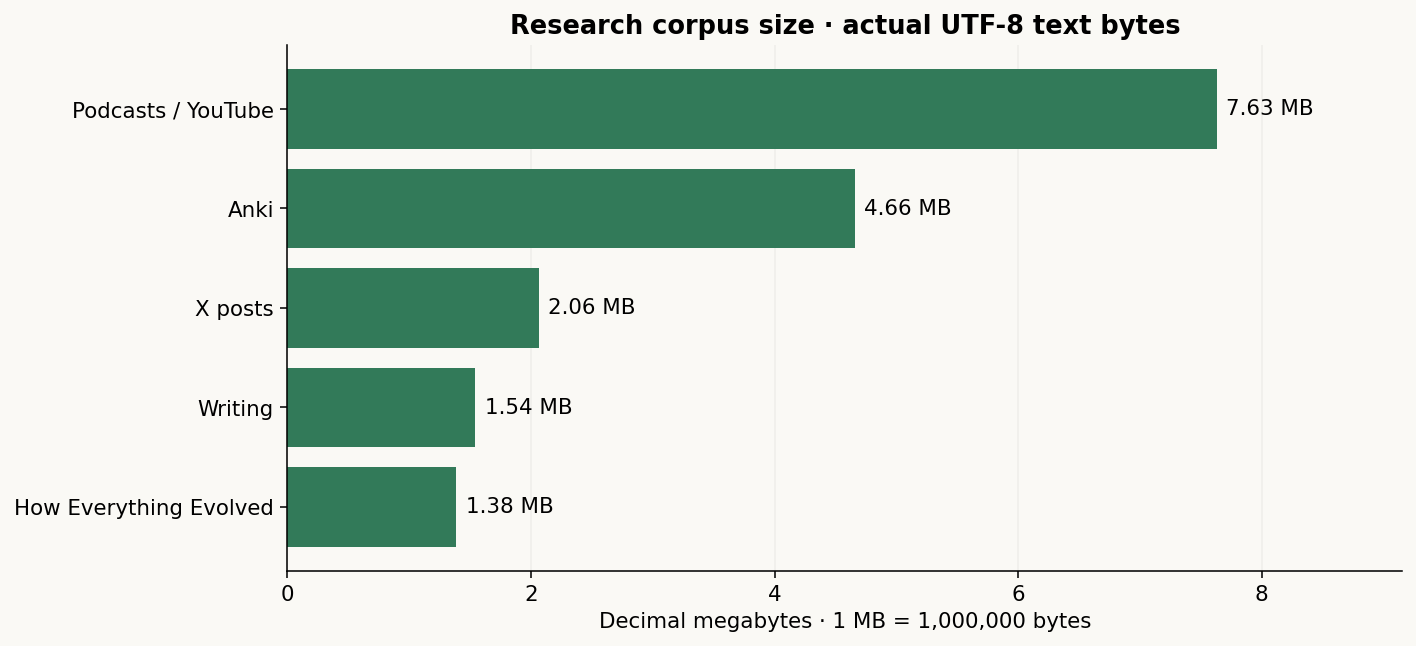
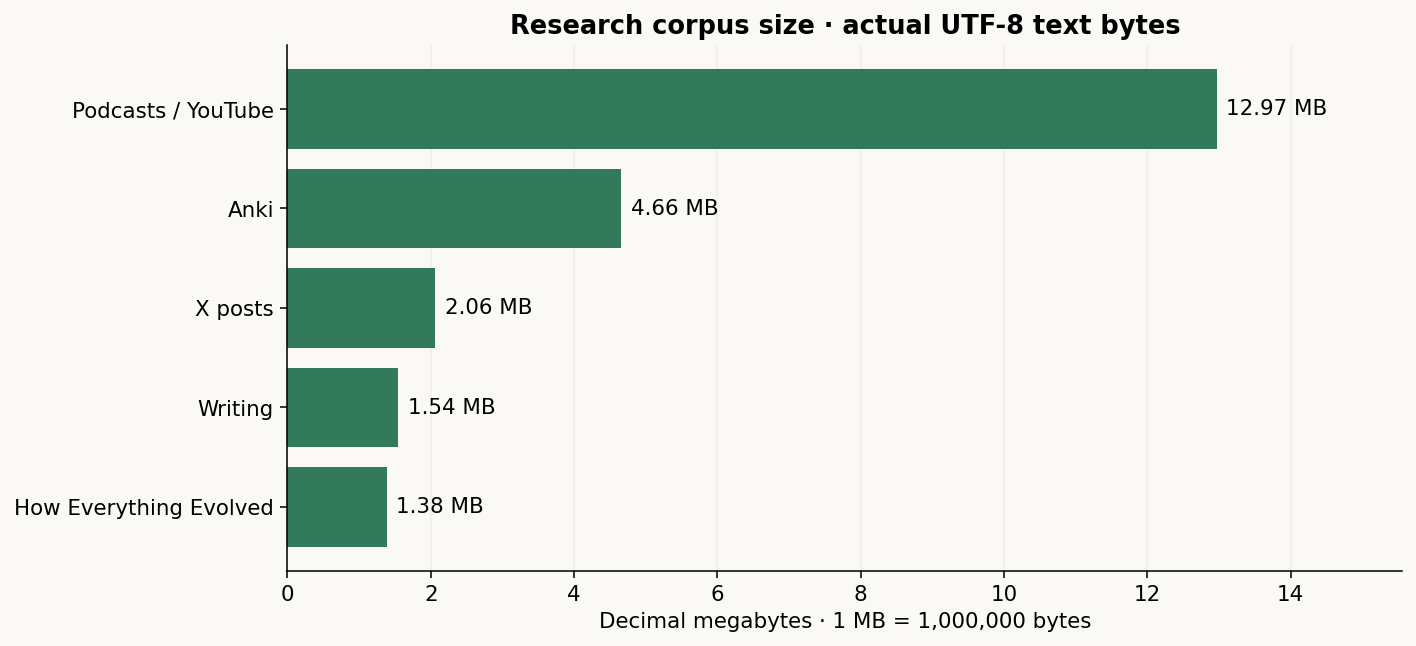
Publish complete speaker corpus coverage and measured size graph

diff --git a/public/rhysbot/index.html b/public/rhysbot/index.html
@@ -9,11 +9,11 @@
 <section class="section"><div class="section-head"><h2>The whole pipeline.</h2><p>From source material to a model someone can use. Each stage has inspectable artifacts and measured results.</p></div><div class="pipeline"><div class="step"><small>01 / RELEASED</small><h3>Collect & review</h3><p>Reviewed notes, writing, original posts, and public transcripts.</p></div><div class="step"><small>02 / TRAINED</small><h3>Pretrain</h3><p>Tiny nanochat trained from scratch. An experiment; current samples are incoherent.</p></div><div class="step"><small>03 / TRAINED</small><h3>Post-train</h3><p>Qwen: 1,000 continued-pretraining and 400 instruction-tuning updates.</p></div><div class="step"><small>04 / MEASURED</small><h3>Evaluate</h3><p>Saved checkpoints compared with untouched base and instruction baselines.</p></div><div class="step active"><small>05 / LIVE</small><h3>Serve & learn</h3><p>Verified saved checkpoints, short answers, and inference that scales to zero.</p></div></div></section>
 <section class="section" id="rhysbot-demo"><div class="section-head"><h2>Try Rhysbot.</h2><p>Explore a tiny model trained from scratch and a Qwen adaptation. Nanochat is a toy experiment, with incoherent samples so far. Each answer identifies its actual checkpoint. Answers are limited to 64 tokens; a cold start can take a minute.</p></div><form id="demo-form"><div class="toolbar"><select id="demo-model" aria-label="Choose model" disabled><option value="qwen">Qwen adaptation</option><option value="nanochat">Nanochat from scratch</option></select><input id="demo-prompt" aria-label="Your question for Rhysbot" placeholder="Ask about an idea in the corpus…" disabled></div><div id="rhysbot-verification"></div><button id="demo-send" type="submit" disabled>Generate a short answer</button></form><p id="demo-status" class="status" role="status" aria-live="polite">Connecting to the hosted checkpoint demo… The corpus explorer is ready below.</p><article id="demo-result" class="record" hidden><p id="demo-answer"></p><p id="demo-identity" class="caption"></p><details><summary>Checkpoint &amp; timing</summary><p id="demo-provenance"></p></details></article></section>
 <section class="section two-col" id="evaluation"><div><h2>What changed?</h2><p>On a small frozen held-out sample, the adaptation predicts study material better. Lower loss does not establish better factual answers or a faithful model of Rhys.</p><p>Nanochat post-training lowered held-out bits per byte from 2.1565 to 1.8188, but its completions remain incoherent. <a href="https://github.com/Rhys-Lindmark/rhysbot/blob/main/docs/MODEL_CARD.md">Read the model card and actual samples ↗</a></p></div><div class="record"><table style="width:100%;text-align:left;border-collapse:collapse;font-size:13px"><caption style="text-align:left;margin-bottom:12px">Qwen diagnostic loss · lower is better</caption><thead><tr><th>Checkpoint</th><th>Text NLL</th><th>Answer NLL</th></tr></thead><tbody><tr><td>Untouched base</td><td>4.0368</td><td>2.9791</td></tr><tr><td>Instruction baseline</td><td>3.8480</td><td>3.7246</td></tr><tr><td>After CPT</td><td>1.5905</td><td>2.4637</td></tr><tr><td>After CPT + SFT</td><td>1.5913</td><td>2.2501</td></tr></tbody></table><p class="caption">32 held-out documents; 10 study questions. Answer loss uses shared ChatML, not each model’s best native prompt. Instruction-baseline samples use its official template with thinking disabled. This is a small diagnostic, not a broad benchmark.</p></div></section>
-<section class="section" id="training-graphs"><div class="section-head"><h2>What training looked like.</h2><p>Actual optimizer logs and held-out measurements. Objectives have separate panels. Nanochat logged NaNs from SFT step 44. Lower loss does not establish factual accuracy.</p></div><div class="two-col"><figure style="margin:0 0 24px"><a href="charts/training-loss.svg"><img src="charts/training-loss.svg" alt="Actual training loss across scratch, continued pretraining and instruction tuning" loading="lazy" style="width:100%;height:auto"></a><figcaption class="caption">2,000 scratch, 80 nanochat SFT, 1,000 Qwen CPT and 400 Qwen SFT updates.</figcaption></figure><figure style="margin:0 0 24px"><a href="charts/nanochat-validation.svg"><img src="charts/nanochat-validation.svg" alt="Nanochat validation loss worsening after step 800" loading="lazy" style="width:100%;height:auto"></a><figcaption class="caption">Observed validation checkpoints. Nanochat overfits after its best scratch checkpoint at step 800.</figcaption></figure><figure style="margin:0 0 24px"><a href="charts/qwen-evaluation.svg"><img src="charts/qwen-evaluation.svg" alt="Qwen held-out prediction losses across four checkpoints" loading="lazy" style="width:100%;height:auto"></a><figcaption class="caption">32 held-out excerpts and 10 study questions; shared ChatML answer loss.</figcaption></figure><figure style="margin:0 0 24px"><a href="charts/corpus-bytes.svg"><img src="charts/corpus-bytes.svg" alt="Research corpus size by collection" loading="lazy" style="width:100%;height:auto"></a><figcaption class="caption">Actual UTF-8 text bytes; separate from the frozen input used for current models.</figcaption></figure></div><p><a href="https://github.com/Rhys-Lindmark/rhysbot/blob/main/results/training-curves.json">Download curve data and source-log hashes ↗</a></p></section><section class="section" id="corpus"><div class="section-head"><h2>Explore the material.</h2><p>Choose a source below or search the whole release. These are source excerpts, including podcast and HEE transcripts, not model answers.</p></div><p id="speaker-coverage" class="note">Speaker transcripts are being added from original recordings. Existing model checkpoints still use the original frozen corpus.</p><p id="corpus-byte-summary" class="note">Measuring released text…</p><div style="overflow-x:auto"><table style="width:100%;text-align:left;font-size:14px"><thead><tr><th>Collection</th><th>Documents</th><th>Excerpts</th><th>Text bytes</th><th>Text size</th></tr></thead><tbody id="corpus-byte-table"></tbody></table></div><div id="source-links" class="toolbar" style="flex-wrap:wrap" aria-label="Browse corpus by source"></div><button id="load">Load all released sources (~56 MB)</button><div class="toolbar"><input id="query" type="search" aria-label="Search released corpus" placeholder="Try entropy, institutions, or evolution…" disabled><select id="source" aria-label="Filter by source"><option value="">All sources</option><option value="anki">Anki</option><option value="writing">Writing</option><option value="hee">How Everything Evolved</option><option value="podcasts_youtube">Podcasts / YouTube</option><option value="x">X posts</option></select></div><p id="search-status" class="status" role="status" aria-live="polite">Loads public text from the GitHub repository. Your searches stay in your browser.</p><div id="results" class="results"></div><button id="more" hidden style="margin-top:20px">Show more</button></section>
-<section class="section two-col"><div><h2>Collected ≠ authored.</h2><p>Anki notes can quote other people. Podcast guests have their own views. Transcripts can contain errors. Every excerpt keeps its source and authorship label. HEE narration is attributed to Rhys based on his confirmation. Interview speaker separation is being added from the original audio; unprocessed interviews retain mixed or unknown attribution. All podcast, YouTube and HEE transcripts are in this research corpus, but were excluded from both models’ pretraining and fine-tuning inputs. Speaker-aware training remains unfinished.</p><p>The initial instruction examples use actual study-note answers and verbatim writing continuations. They are a starting dataset, not proof that the model thinks like Rhys.</p></div><div><h2>Privacy comes first.</h2><p>Raw local archives are kept out of Git. Anki cards require individual semantic review before publication; unreviewed cards stay private. Actual personal-life material, private contact details, and credentials are withheld. We retained 20,980 of 21,301 cards; 321 were withheld.</p><p>Public-source excerpts receive conservative automated screening. This is a partial release with known gaps and screening limitations. <a href="https://github.com/Rhys-Lindmark/rhysbot/blob/main/docs/DATASET_CARD.md">Read the dataset card</a> or <a href="https://github.com/Rhys-Lindmark/rhysbot/issues">report a record</a>.</p></div></section>
+<section class="section" id="training-graphs"><div class="section-head"><h2>What training looked like.</h2><p>Actual optimizer logs and held-out measurements. Objectives have separate panels. Nanochat logged NaNs from SFT step 44. Lower loss does not establish factual accuracy.</p></div><div class="two-col"><figure style="margin:0 0 24px"><a href="charts/training-loss.svg"><img src="charts/training-loss.svg" alt="Actual training loss across scratch, continued pretraining and instruction tuning" loading="lazy" style="width:100%;height:auto"></a><figcaption class="caption">2,000 scratch, 80 nanochat SFT, 1,000 Qwen CPT and 400 Qwen SFT updates.</figcaption></figure><figure style="margin:0 0 24px"><a href="charts/nanochat-validation.svg"><img src="charts/nanochat-validation.svg" alt="Nanochat validation loss worsening after step 800" loading="lazy" style="width:100%;height:auto"></a><figcaption class="caption">Observed validation checkpoints. Nanochat overfits after its best scratch checkpoint at step 800.</figcaption></figure><figure style="margin:0 0 24px"><a href="charts/qwen-evaluation.svg"><img src="charts/qwen-evaluation.svg" alt="Qwen held-out prediction losses across four checkpoints" loading="lazy" style="width:100%;height:auto"></a><figcaption class="caption">32 held-out excerpts and 10 study questions; shared ChatML answer loss.</figcaption></figure><figure style="margin:0 0 24px"><a href="charts/corpus-bytes.svg"><img src="charts/corpus-bytes.svg" alt="Research corpus size by collection" loading="lazy" style="width:100%;height:auto"></a><figcaption class="caption">Actual UTF-8 text bytes; separate from the frozen input used for current models.</figcaption></figure></div><p><a href="https://github.com/Rhys-Lindmark/rhysbot/blob/main/results/training-curves.json">Download curve data and source-log hashes ↗</a></p></section><section class="section" id="corpus"><div class="section-head"><h2>Explore the material.</h2><p>Choose a source below or search the whole release. These are source excerpts, including podcast and HEE transcripts, not model answers.</p></div><p id="speaker-coverage" class="note">Speaker-separated transcripts cover 214 original recordings. Existing model checkpoints still use the original frozen corpus.</p><p class="note">Recording coverage: 214 of 216 inventoried recordings have screened speaker transcripts. The Meta community-call clip could not be acquired; a video titled solo piano was excluded from speech transcription. <a href="https://github.com/Rhys-Lindmark/rhysbot/blob/main/docs/speaker-coverage.json">See recording-level coverage ↗</a></p><p id="corpus-byte-summary" class="note">Measuring released text…</p><div style="overflow-x:auto"><table style="width:100%;text-align:left;font-size:14px"><thead><tr><th>Collection</th><th>Documents</th><th>Excerpts</th><th>Text bytes</th><th>Text size</th></tr></thead><tbody id="corpus-byte-table"></tbody></table></div><div id="source-links" class="toolbar" style="flex-wrap:wrap" aria-label="Browse corpus by source"></div><button id="load">Load all released sources (~65 MB)</button><div class="toolbar"><input id="query" type="search" aria-label="Search released corpus" placeholder="Try entropy, institutions, or evolution…" disabled><select id="source" aria-label="Filter by source"><option value="">All sources</option><option value="anki">Anki</option><option value="writing">Writing</option><option value="hee">How Everything Evolved</option><option value="podcasts_youtube">Podcasts / YouTube</option><option value="x">X posts</option></select></div><p id="search-status" class="status" role="status" aria-live="polite">Loads public text from the GitHub repository. Your searches stay in your browser.</p><div id="results" class="results"></div><button id="more" hidden style="margin-top:20px">Show more</button></section>
+<section class="section two-col"><div><h2>Collected ≠ authored.</h2><p>Anki notes can quote other people. Podcast guests have their own views. Transcripts can contain errors. Every excerpt keeps its source and authorship label. HEE narration is attributed to Rhys based on his confirmation. Speaker turns were inferred from original audio for 214 recordings. Rhys labels use a voice reference cross-checked against his confirmed Digicene narration; other voices keep local guest labels. Anonymous or ambiguous identities remain uncertain. The unavailable Meta clip retains its earlier captions with unverified attribution. All podcast, YouTube and HEE transcripts are in this research corpus, but were excluded from both models’ pretraining and fine-tuning inputs. Speaker-aware training remains unfinished.</p><p>The initial instruction examples use actual study-note answers and verbatim writing continuations. They are a starting dataset, not proof that the model thinks like Rhys.</p></div><div><h2>Privacy comes first.</h2><p>Raw local archives are kept out of Git. Anki cards require individual semantic review before publication; unreviewed cards stay private. Actual personal-life material, private contact details, and credentials are withheld. We retained 20,980 of 21,301 cards; 321 were withheld.</p><p>Public-source excerpts receive conservative automated screening. This is a partial release with known gaps and screening limitations. <a href="https://github.com/Rhys-Lindmark/rhysbot/blob/main/docs/DATASET_CARD.md">Read the dataset card</a> or <a href="https://github.com/Rhys-Lindmark/rhysbot/issues">report a record</a>.</p></div></section>
 </main><footer><span>Rhysbot / Rhys Lindmark</span><span>Corpus, code & experiments · <a href="https://github.com/Rhys-Lindmark/rhysbot">GitHub ↗</a></span></footer>
 <script type="module">
-const base='https://raw.githubusercontent.com/Rhys-Lindmark/rhysbot/main/data/public/';
+const base='https://raw.githubusercontent.com/Rhys-Lindmark/rhysbot/152fbf26ee4d92f08508451d2a9a65e84b8b1e07/data/public/';
 const $=s=>document.querySelector(s),format=n=>new Intl.NumberFormat('en-US').format(n);
 fetch(base+'stats.json').then(r=>{if(!r.ok)throw Error('stats');return r.json()}).then(s=>{$('#corpus-byte-summary').textContent=format(s.text_utf8_bytes)+' UTF-8 text bytes ('+megabytes(s.text_utf8_bytes)+'). Download: '+format(s.corpus_jsonl_bytes)+' JSONL bytes ('+megabytes(s.corpus_jsonl_bytes)+'), including metadata. Media and model weights are separate. 1 MB = 1,000,000 bytes.';for(const type of sourceOrder){const m=s.collection_metrics?.[type];if(!m)continue;const tr=document.createElement('tr');for(const value of [names[type],format(m.documents),format(m.excerpts),format(m.text_utf8_bytes),megabytes(m.text_utf8_bytes)])addText(tr,'td',value);$('#corpus-byte-table').append(tr)}const sp=s.speaker_transcript_integration;if(sp)$('#speaker-coverage').textContent=format(sp.episodes_processed)+' speaker-separated recordings · '+format(sp.episodes_with_rhys_match)+' with a Rhys voice match · '+format(sp.episodes_anonymous_or_ambiguous)+' with anonymous or ambiguous identities. Automatic labels can be wrong. Existing checkpoints have not been retrained on this update.';$('#records').textContent=format(s.records);$('#words').textContent=format(s.words);$('#anki').textContent=format(s.retained_anki_cards_before_text_deduplication??s.by_source.anki??0);for(const type of sourceOrder){const a=addText($('#source-links'),'a',names[type]+' · '+megabytes(s.collection_metrics?.[type]?.text_utf8_bytes||0),'button secondary');a.href='?source='+encodeURIComponent(type)+'#corpus';a.addEventListener('click',event=>{if(event.button!==0||event.metaKey||event.ctrlKey||event.shiftKey||event.altKey)return;event.preventDefault();$('#source').value=type;updateSourceURL();loadCorpus();$('#corpus').scrollIntoView({block:'start'})})}for(const option of $('#source').options)if(option.value in names)option.textContent=names[option.value]+' · '+megabytes(s.collection_metrics?.[option.value]?.text_utf8_bytes||0)}).catch(()=>{$('#records').textContent='Pending';$('#words').textContent='Pending';$('#anki').textContent='Pending'});
 let rows=[],matches=[],shown=0,loadingCorpus=null;
@@ -29,7 +29,7 @@ function addText(parent,tag,text,cls){const n=document.createElement(tag);n.text
 function addSpeakerLink(parent,row){if(!row.speaker_transcript_url)return;try{const u=new URL(row.speaker_transcript_url),match=/\/(podcast-[a-f0-9]{20})\.json$/.exec(u.pathname);if(u.hostname!=='raw.githubusercontent.com'||!u.pathname.startsWith('/Rhys-Lindmark/rhysbot/main/data/public/speaker-transcripts/')||!match)return;const a=addText(parent,'a','Read speaker transcript ↗','source');a.href='/rhysbot/transcript/?episode='+match[1]}catch{}}
 function render(){const end=Math.min(shown+12,matches.length);for(const r of matches.slice(shown,end)){const card=document.createElement('article');card.className='record';const meta=document.createElement('div');meta.className='meta';addText(meta,'span',names[rowCollection(r)]||r.source_type);addText(meta,'span',r.published_at?.slice(0,10)||'Date unavailable');card.append(meta);addText(card,'h3',r.title);addText(card,'p',r.text.length>550?r.text.slice(0,550)+'…':r.text);if(r.text.length>550){const details=document.createElement('details');addText(details,'summary','Read full excerpt');addText(details,'p',r.text);card.append(details)}addText(card,'p',r.authorship.replaceAll('_',' ')+' · '+(sourceNames[r.source_type]||r.source_type),'caption');addSpeakerLink(card,r);if(r.source_url){try{const u=new URL(r.source_url);if(['https:','http:'].includes(u.protocol)){const a=addText(card,'a','Original source ↗','source');a.href=u.href;a.target='_blank';a.rel='noopener noreferrer'}}catch{}}else addText(card,'span','Reviewed local study note','source');$('#results').append(card)}shown=end;$('#more').hidden=shown>=matches.length;$('#search-status').textContent=`${format(matches.length)} matching excerpts · showing ${format(shown)}. Searches stay in this browser.`}
 function search(){const q=$('#query').value.toLowerCase().trim(),source=$('#source').value;matches=rows.filter(r=>(!source||rowCollection(r)===source)&&(!q||(r.title+' '+r.text).toLowerCase().includes(q)));if(!source)matches=allSourcePreview(matches);shown=0;$('#results').replaceChildren();render()}
-async function loadCorpus(){if(rows.length){search();return}if(loadingCorpus)return loadingCorpus;const b=$('#load');b.disabled=true;b.textContent='Loading…';$('#search-status').textContent='Loading the public release (~56 MB). Then you can switch sources without downloading it again.';loadingCorpus=(async()=>{try{const response=await fetch(base+'corpus.jsonl');if(!response.ok)throw Error('HTTP '+response.status);rows=(await response.text()).trim().split('\n').filter(Boolean).map(JSON.parse);$('#query').disabled=false;b.hidden=true;search()}catch(e){b.disabled=false;b.textContent='Retry loading corpus';$('#search-status').textContent='Could not load the release. You can also download it from GitHub.'}finally{loadingCorpus=null}})();return loadingCorpus}
+async function loadCorpus(){if(rows.length){search();return}if(loadingCorpus)return loadingCorpus;const b=$('#load');b.disabled=true;b.textContent='Loading…';$('#search-status').textContent='Loading the public release (~65 MB). Then you can switch sources without downloading it again.';loadingCorpus=(async()=>{try{const response=await fetch(base+'corpus.jsonl');if(!response.ok)throw Error('HTTP '+response.status);rows=(await response.text()).trim().split('\n').filter(Boolean).map(JSON.parse);$('#query').disabled=false;b.hidden=true;search()}catch(e){b.disabled=false;b.textContent='Retry loading corpus';$('#search-status').textContent='Could not load the release. You can also download it from GitHub.'}finally{loadingCorpus=null}})();return loadingCorpus}
 $('#load').addEventListener('click',loadCorpus);
 let timer;$('#query').addEventListener('input',()=>{clearTimeout(timer);timer=setTimeout(search,150)});$('#source').addEventListener('change',()=>{updateSourceURL();loadCorpus()});
 const rawSource=new URLSearchParams(location.search).get('source'),requestedSource=sourceAliases[rawSource]||rawSource;if(sourceOrder.includes(requestedSource)){$('#source').value=requestedSource;loadCorpus()}$('#more').addEventListener('click',render);

diff --git a/public/rhysbot/transcript/index.html b/public/rhysbot/transcript/index.html
@@ -11,5 +11,5 @@ function listen(time){if(!transcript.rss_enclosure_url){try{const u=new URL(tran
 function render(){for(const turn of filtered.slice(shown,shown+60)){const article=document.createElement('article'),meta=document.createElement('div');meta.className='meta';const time=text(meta,'button',stamp(turn.start)+'–'+stamp(turn.end),'timestamp');time.type='button';time.setAttribute('aria-label','Listen from '+stamp(turn.start));time.addEventListener('click',()=>listen(turn.start));text(meta,'span',turn.speaker,'speaker'+(turn.speaker==='Rhys Lindmark'?' rhys':''));article.append(meta);text(article,'p',turn.text===null?'[Withheld by the public-source privacy screen]':turn.text,turn.text===null?'muted':'');$('#turns').append(article)}shown=Math.min(shown+60,filtered.length);$('#status').textContent=`${filtered.length.toLocaleString()} matching turns · showing ${shown.toLocaleString()}`;$('#more').hidden=shown>=filtered.length}
 function search(){const q=$('#query').value.toLowerCase().trim(),speaker=$('#speaker').value;filtered=transcript.turns.filter(t=>(!speaker||t.speaker_id===speaker)&&(!q||(t.text||'').toLowerCase().includes(q)));shown=0;$('#turns').replaceChildren();render()}
 $('#query').addEventListener('input',search);$('#speaker').addEventListener('change',search);$('#more').addEventListener('click',render);
-if(!/^podcast-[a-f0-9]{20}$/.test(episode||'')){$('#title').textContent='Choose an episode from the corpus.'}else{try{const url='https://raw.githubusercontent.com/Rhys-Lindmark/rhysbot/main/data/public/speaker-transcripts/'+episode+'.json';const response=await fetch(url);if(!response.ok)throw Error('missing');transcript=await response.json();if(transcript.id!==episode||!Array.isArray(transcript.turns))throw Error('invalid');$('#title').textContent=transcript.title;document.title=transcript.title+' · Rhysbot transcript';$('#description').textContent=`${stamp(transcript.audio_duration_seconds)} · ${transcript.turns.length.toLocaleString()} speaker turns · ${transcript.audio_source_kind==='youtube_audio'?'YouTube audio':'original podcast audio'}`;link('Original podcast ↗',transcript.source_url);if(transcript.youtube_url)link('YouTube edition ↗',transcript.youtube_url);$('#download').href=url;for(const limitation of transcript.limitations||[])text($('#limitations'),'li',limitation);const speakers=new Map(transcript.turns.map(t=>[t.speaker_id,t.speaker]));for(const[id,label]of speakers){const option=text($('#speaker'),'option',label);option.value=id}search()}catch{$('#title').textContent='This transcript is not available yet.';$('#status').textContent='Return to the corpus to browse released episodes.'}}
+if(!/^podcast-[a-f0-9]{20}$/.test(episode||'')){$('#title').textContent='Choose an episode from the corpus.'}else{try{const url='https://raw.githubusercontent.com/Rhys-Lindmark/rhysbot/152fbf26ee4d92f08508451d2a9a65e84b8b1e07/data/public/speaker-transcripts/'+episode+'.json';const response=await fetch(url);if(!response.ok)throw Error('missing');transcript=await response.json();if(transcript.id!==episode||!Array.isArray(transcript.turns))throw Error('invalid');$('#title').textContent=transcript.title;document.title=transcript.title+' · Rhysbot transcript';$('#description').textContent=`${stamp(transcript.audio_duration_seconds)} · ${transcript.turns.length.toLocaleString()} speaker turns · ${transcript.audio_source_kind==='youtube_audio'?'YouTube audio':'original podcast audio'}`;link(transcript.audio_source_kind==='youtube_audio'?'Original YouTube recording ↗':'Original podcast ↗',transcript.source_url);if(transcript.youtube_url&&transcript.youtube_url!==transcript.source_url)link('YouTube edition ↗',transcript.youtube_url);$('#download').href=url;for(const limitation of transcript.limitations||[])text($('#limitations'),'li',limitation);const speakers=new Map(transcript.turns.map(t=>[t.speaker_id,t.speaker]));for(const[id,label]of speakers){const option=text($('#speaker'),'option',label);option.value=id}search()}catch{$('#title').textContent='This transcript is not available yet.';$('#status').textContent='Return to the corpus to browse released episodes.'}}
 </script></body></html>
